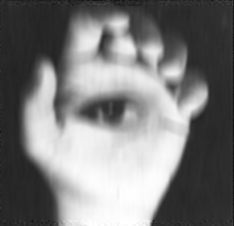
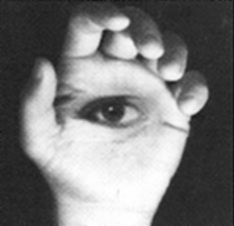
arrumei uma das separaveis

diff --git a/MeanFilter/main-Enrico-Giuliana.py b/MeanFilter/main-Enrico-Giuliana.py
@@ -15,7 +15,7 @@ import cv2
 
 INPUT_IMAGE =  'a.bmp'
 LARGURA_JANELA = 3
-ALTURA_JANELA = 13
+ALTURA_JANELA = 3
 
 left = lambda n: int((n - 1)/2)
 right = lambda n: int((n)/2)
@@ -50,7 +50,7 @@ def filtroDaMediaSeparavel(img, altura_janela, largura_janela):
     T, B, L, R = limits(img.shape, altura_janela, largura_janela)
     buffer = complete_lines (largura_janela,img)
     img_out = img.copy()
-    img_out[T:B,L:T]= complete_lines (altura_janela, buffer)[T:B,L:T]
+    img_out[T:B,L:R]= complete_lines (altura_janela, buffer)[T:B,L:R]
          
     return img_out
 
@@ -76,7 +76,6 @@ def filtroDaMediaSeparavel2(img, altura_janela, largura_janela):
             img_out[i,j] = img_out[i-1,j] + (buffer[i+right(altura_janela),j] - buffer[i-left(altura_janela)-1,j])/altura_janela
 
     return img_out
-            
 
 def main ():
     # Abre a imagem em escala de cinza.
@@ -97,10 +96,13 @@ def main ():
     img_separavel_2 = filtroDaMediaSeparavel2 (img, ALTURA_JANELA, LARGURA_JANELA)
     print ('Tempo - Filtro Media Separavel 2: %f' % (timeit.default_timer () - start_time))
     
+
     cv2.imshow ('a - entrada', img)
     cv2.imshow ('a - ingenuo', img_ingenuo)
     cv2.imshow ('a - separavel', img_separavel)
     cv2.imshow ('a - separavel_2', img_separavel_2)
+    
+
     cv2.imwrite ('a - ingenuo.png', img_ingenuo*255)
     cv2.imwrite ('a - separavel.png', img_separavel*255)
     cv2.imwrite ('a - separavel_2.png', img_separavel_2*255)
